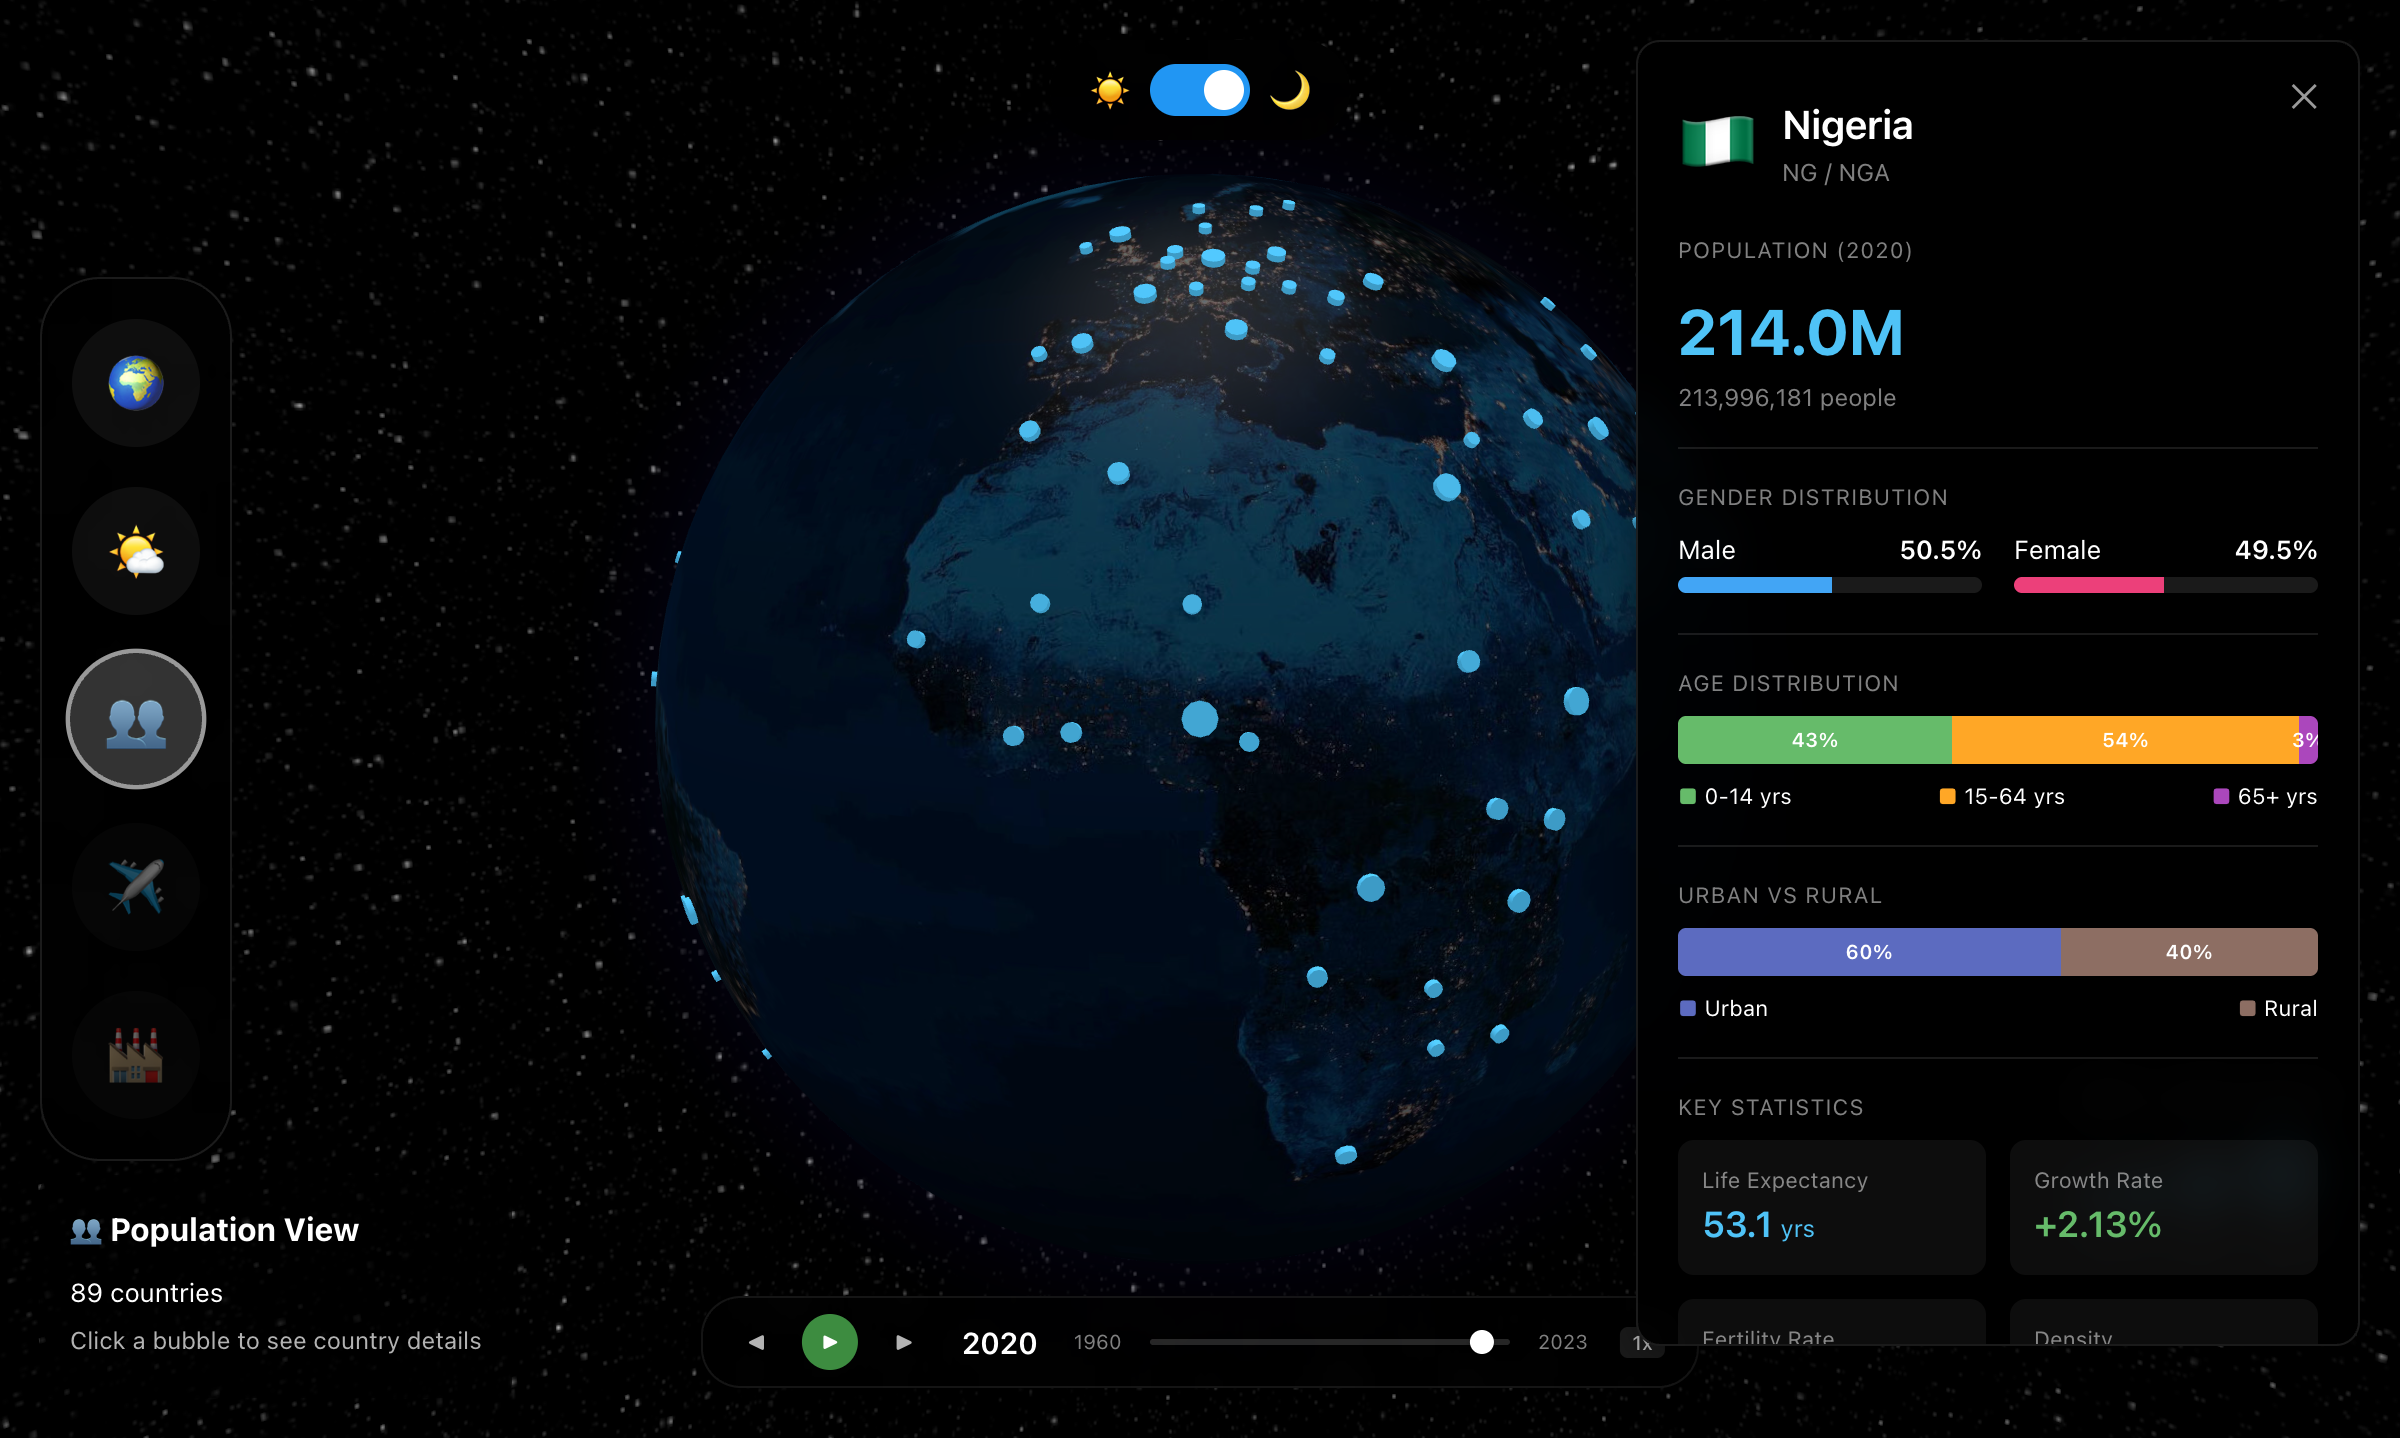
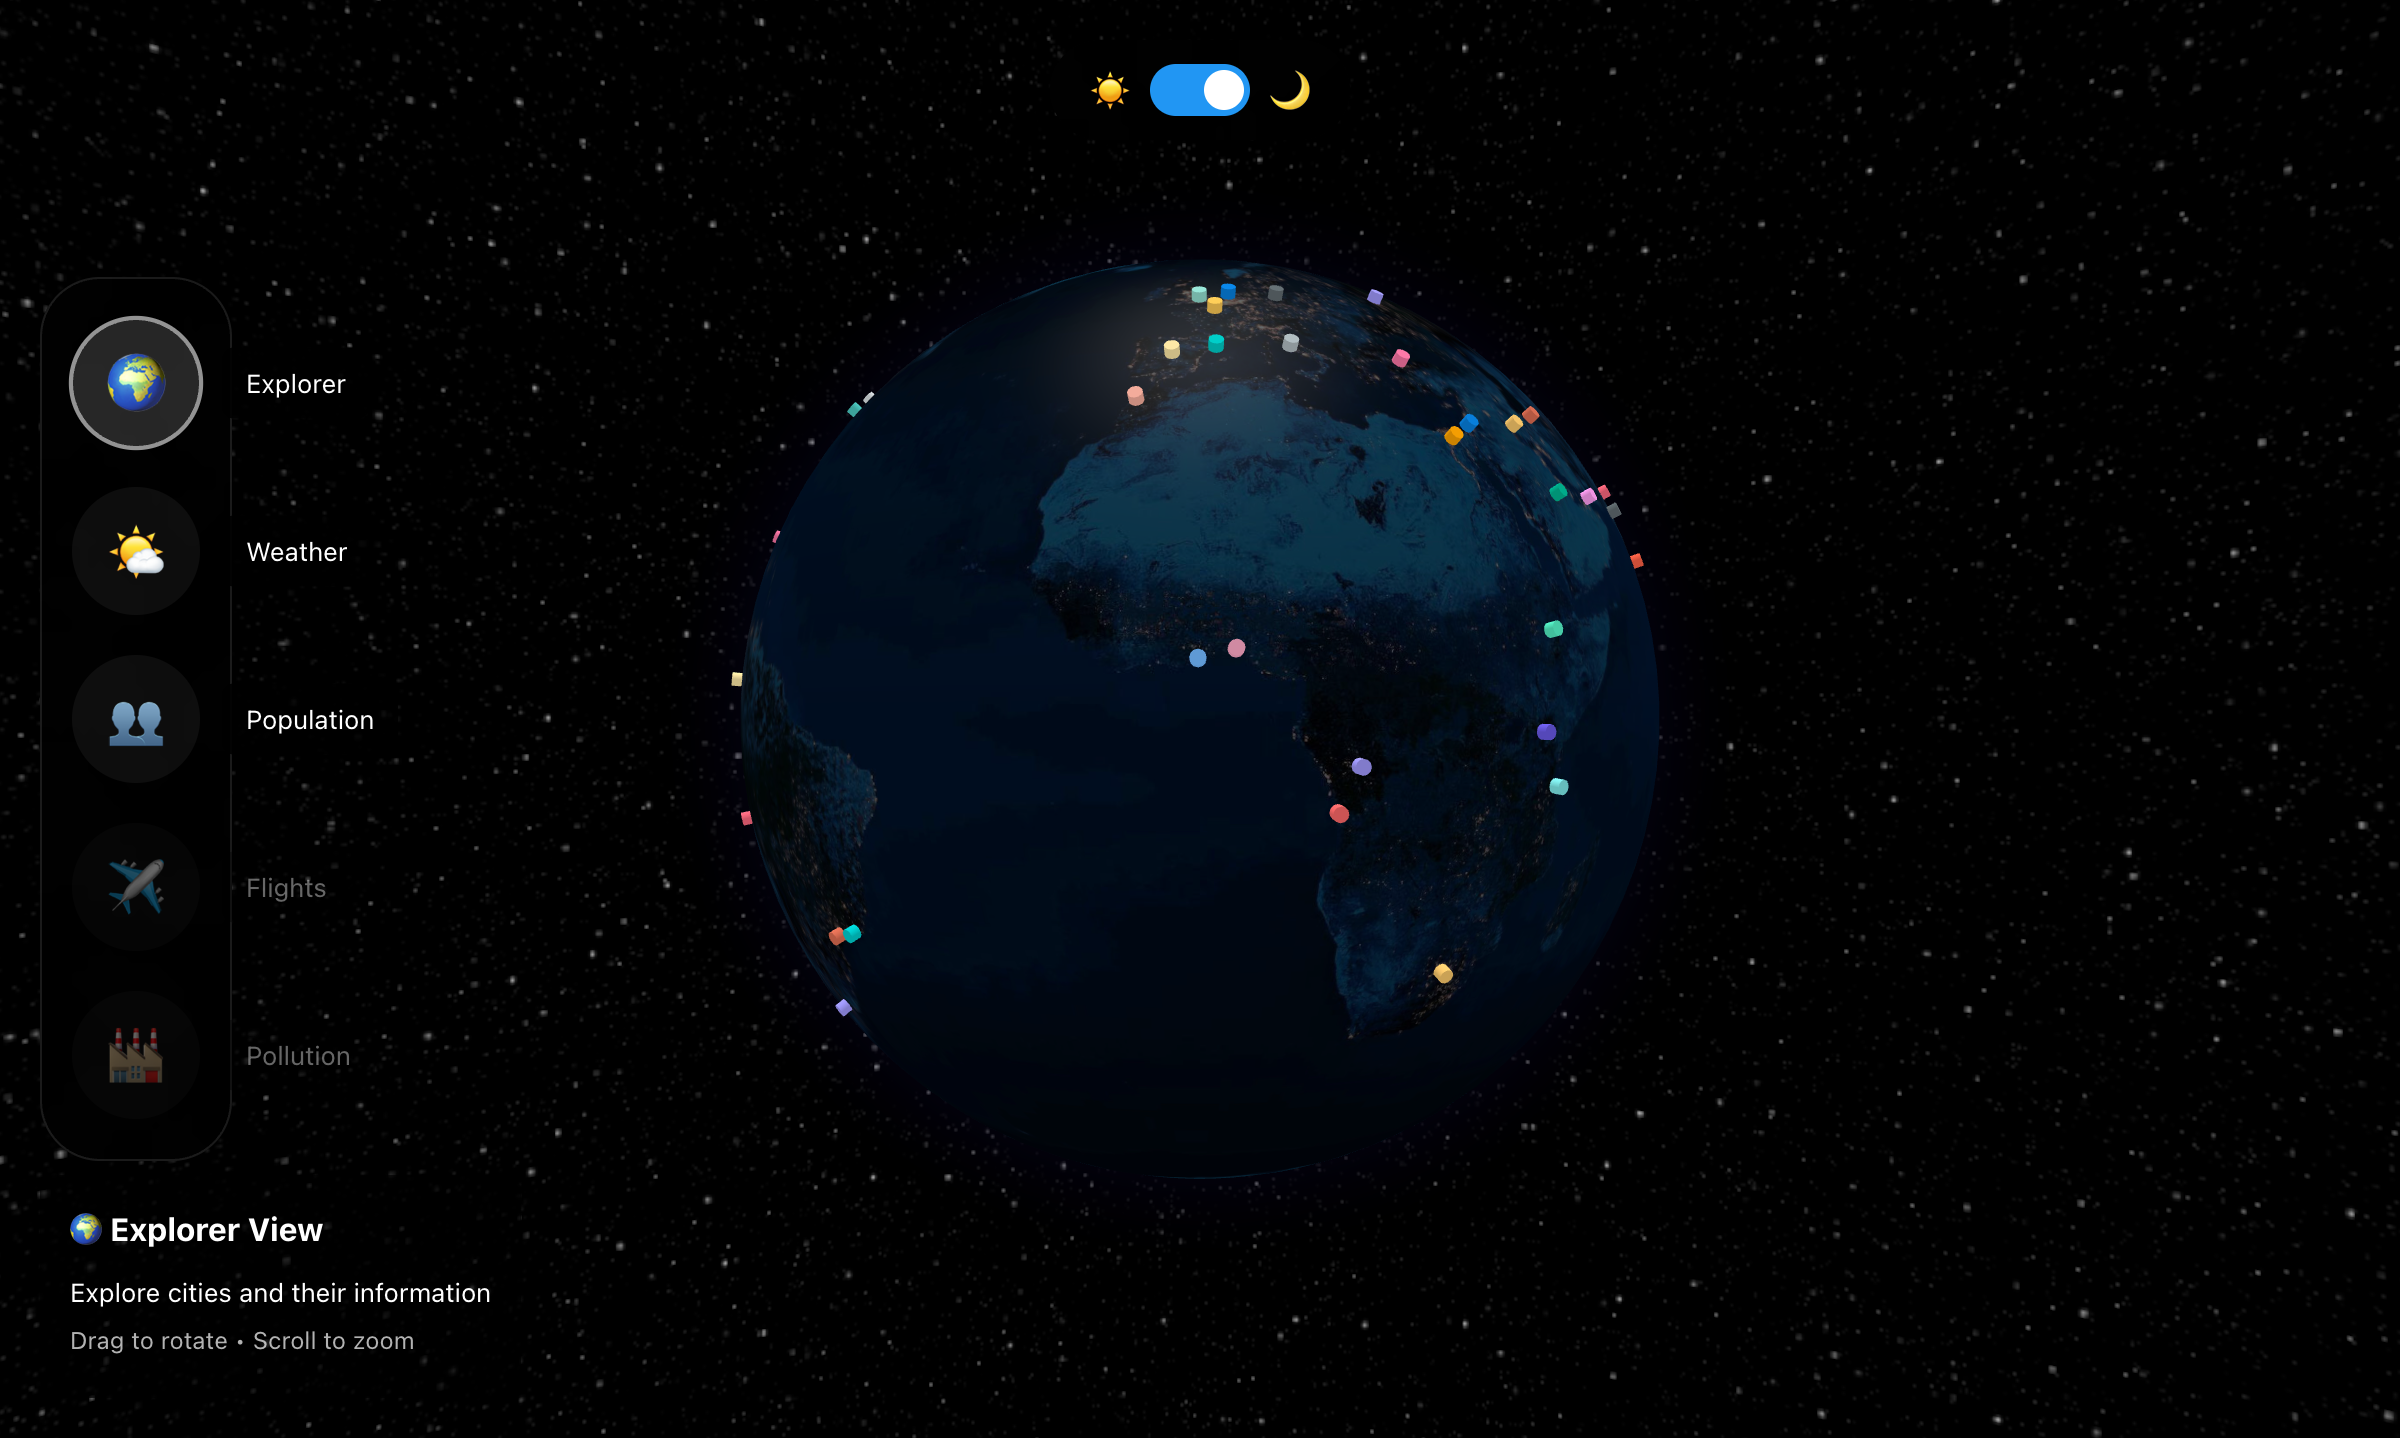
Add Population view screenshot to README
- Main screenshot shows Explorer view
- Population section includes demographics panel screenshot

🤖 Generated with [Claude Code](https://claude.com/claude-code)

diff --git a/README.md b/README.md
@@ -72,6 +72,8 @@ Click any of 50 cities to see:
   - Life expectancy, growth rate, fertility rate
   - Population history sparkline
 
+![Population View](screenshot-population.png)
+
 ## Data Sources
 
 | Data | Source | Coverage |
